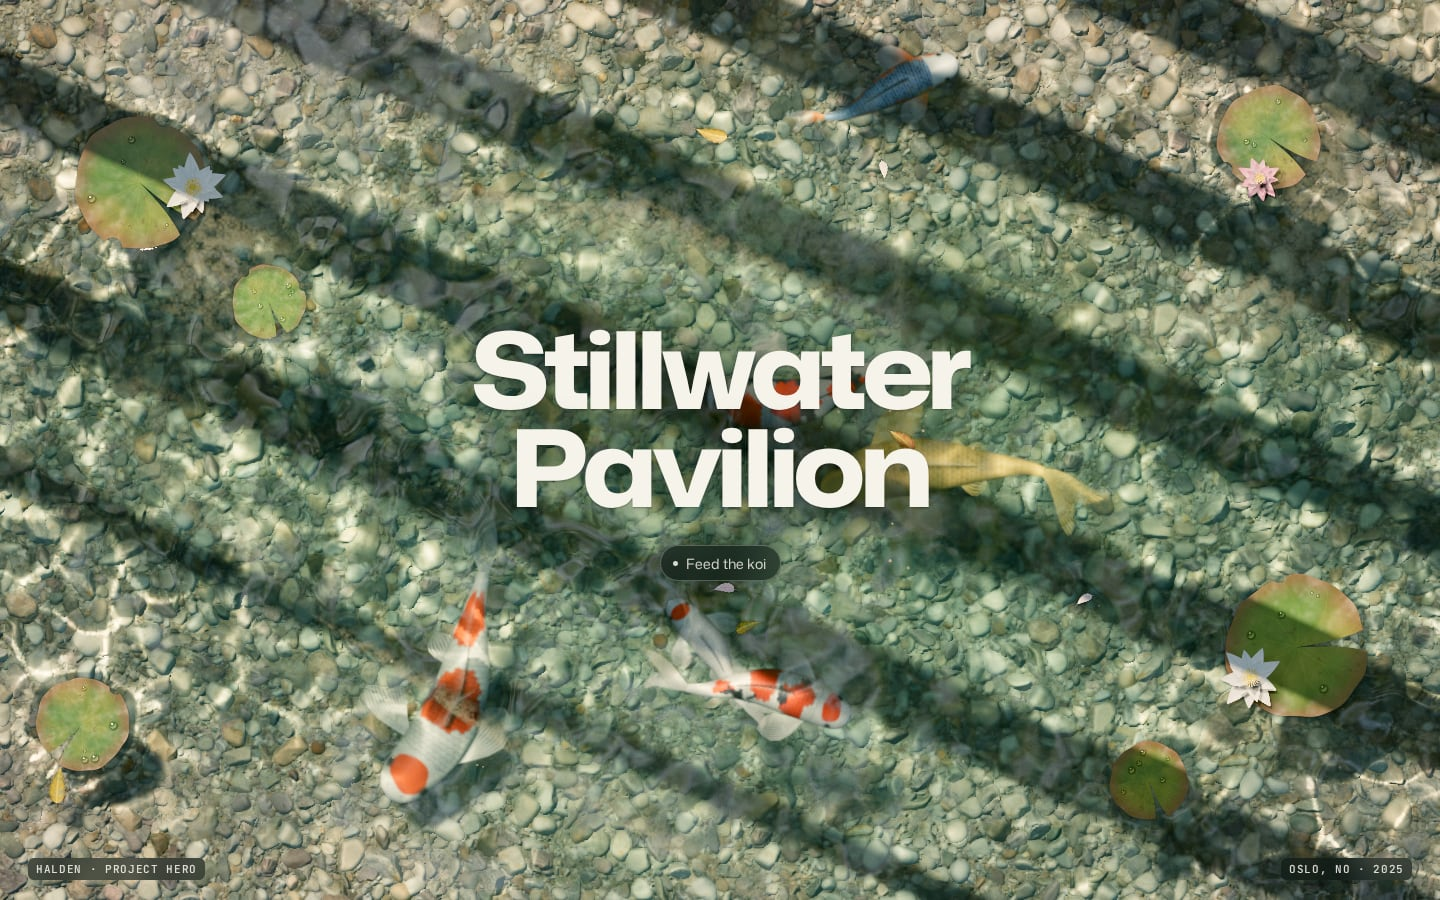
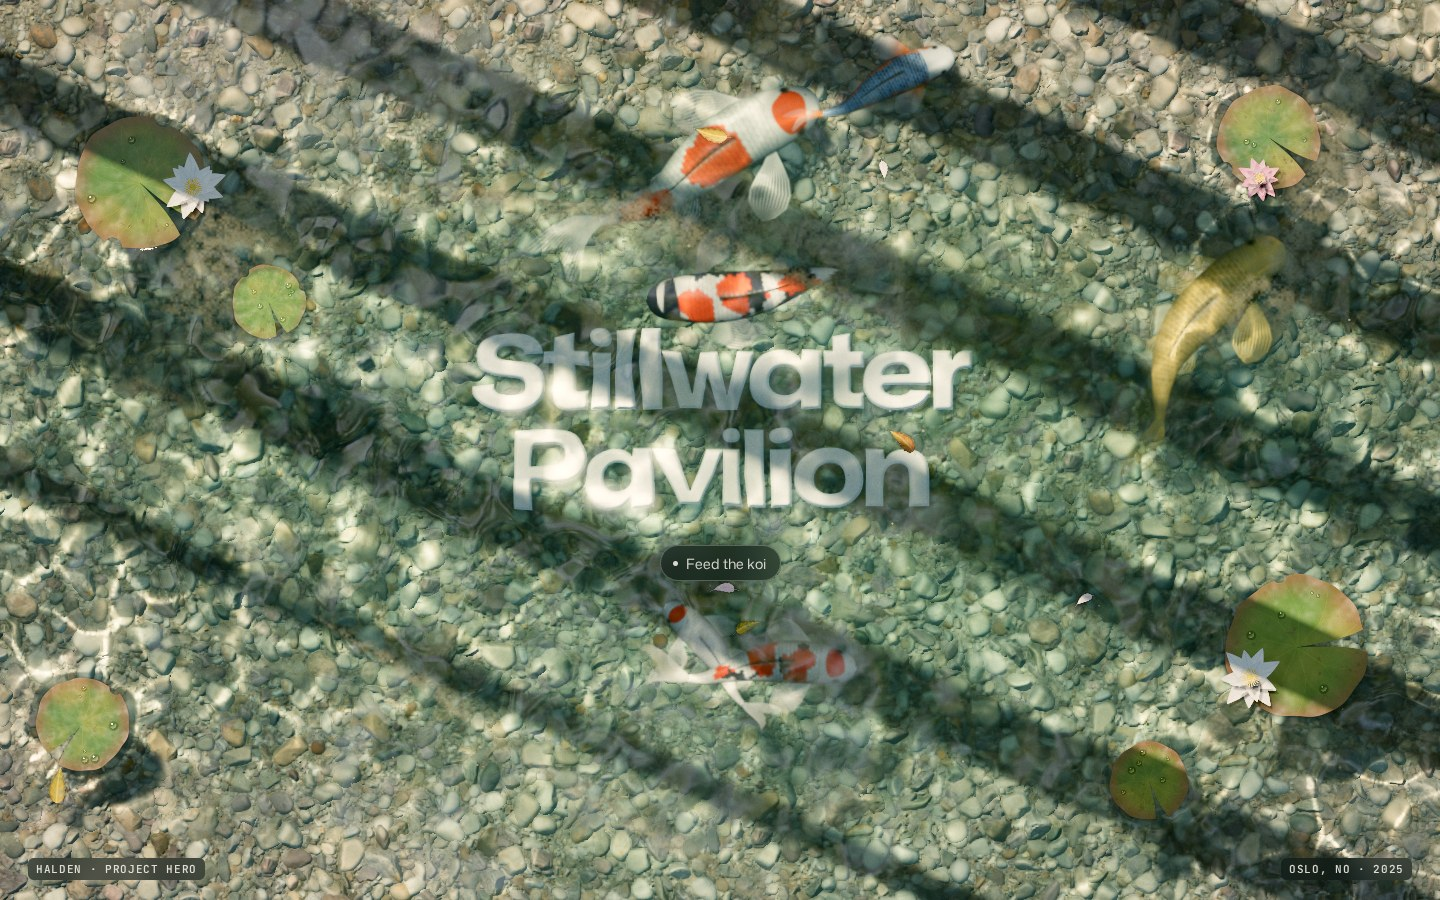
Lay the koi headline on the pond's bed in stone letters
The headline is now part of the scene, like the meadow's word: pale stone
letters on the floor that the ripples bend, the roof's shade and the
caustics cross, and the koi swim over. The DOM heading stays for assistive
tech (transparent once the pond is ready) and is the headline again in the
static fallback. Hide text removes the letters too.

Idle koi swim round the headline so it stays readable; food or a curious
pointer still takes them over it. pond-check covers the rule on a desktop
and a phone frame.

diff --git a/src/koi/glsl/composite.js b/src/koi/glsl/composite.js
@@ -1,5 +1,5 @@
 // The photograph's main pass: for every pixel look down through the rippled surface, shade the floor it lands
-// on (pebbles, sun through the pavilion's roof and the caustics, the shadows of koi, pads and letters), lay the koi over it,
+// on (pebbles and the headline's stone letters, sun through the pavilion's roof and the caustics, the shadows of koi and pads), lay the koi over it,
 // take the water's toll, then add what the surface itself reflects.
 import { common, gobo } from './common.js';
 
@@ -64,6 +64,20 @@ void main() {
   float film = clamp(0.75 - aux.g * 1.5 + 1.1 * (vnoise(pf / (uS * 170.0) + 5.0) - 0.45), 0.0, 1.0);
   alb = mix(alb, alb * vec3(0.5, 0.5, 0.26) + vec3(0.004, 0.009, 0.003), film * 0.32);
   alb *= 0.9;
+  // ---- the headline lies on the bed: letters cut from pale stone, a finger thick. Being floor, they bend with the
+  // ripples, the roof's shade and the caustics fall across them, and the koi swim over them.
+  vec4 tx = textureLod(uText, uvOf(pf), 0.0);   // b: the letters, r: the same but soft
+  float stone = tx.b;
+  if (tx.r > 0.003) {
+    float te = 1.5 * uS;
+    vec2 tg = vec2(textureLod(uText, uvOf(pf + vec2(te, 0.0)), 0.0).r - textureLod(uText, uvOf(pf - vec2(te, 0.0)), 0.0).r,
+                   textureLod(uText, uvOf(pf + vec2(0.0, te)), 0.0).r - textureLod(uText, uvOf(pf - vec2(0.0, te)), 0.0).r);
+    vec3 sa = vec3(0.8, 0.78, 0.71) * (0.9 + 0.14 * vnoise(pf / (uS * 22.0) + 9.0) + 0.08 * (vnoise(pf / (uS * 1.6)) - 0.5));
+    sa = mix(sa, sa * vec3(0.62, 0.68, 0.42), 0.3 * smoothstep(0.45, 0.8, vnoise(pf / (uS * 46.0) + 31.0)));   // a little of the pond's film has begun on them, in patches of its own
+    alb = mix(alb, sa, stone);
+    n = normalize(mix(n, vec3(-tg * 3.4, 1.0), stone));       // a worn bevel round every edge
+    aux.r = mix(aux.r, 1.0, stone);
+  }
   vec2 wob = g * 30.0 * uS;                                  // the same ripples that focus the light bend the shadows
   vec2 sdir = SHDIR * TANW;
   float gate = goboAt(pf - sdir * 30.0 * uS + wob * 0.15, 0.03 * d);   // the floor's unevenness would bend the beams' shadows out of recognition: they are laid as on a level bed
@@ -74,14 +88,14 @@ void main() {
   vec2 sh = vec2(0.0, textureLod(uShadow, su, 1.6 * deep).g);
   float rim = smoothstep(0.1, 0.4, textureLod(uShadow, su, 2.6).g - sh.g) * (1.0 - deep);
   float shKoi = texture(uShadow, uvOf(pf + wob)).r;   // koi shadows are drawn where they land; a pad's (green) lies at the surface
-  // the letters hang just above the water: on the deep floor their shadow is only a soft pool, down-sun of the type
-  float shText = texture(uText, uvOf(pf - SHDIR * 26.0 * uS + wob)).g;
-  float lit = (1.0 - 0.9 * shKoi) * (1.0 - 0.94 * sh.g) * (1.0 - 0.6 * shText);
+  // the letters' own shadow on the pebbles down-sun of them, and the dim seam where stone meets pebble
+  float shText = textureLod(uText, uvOf(pf - sdir * 9.0 * uS), 0.0).r * (1.0 - stone);
+  float lit = (1.0 - 0.9 * shKoi) * (1.0 - 0.94 * sh.g) * (1.0 - 0.75 * shText);
   vec3 sun = SUNCOL * gate * mix(1.0, ca, 0.86 - 0.2 * deep) * lit * (1.0 + 1.3 * rim);
   float ndl = max(dot(n, SUN_W), 0.0);
-  vec3 amb = SKYCOL * (0.5 + 0.5 * gate) * mix(0.3, 1.0, aux.r) * (1.0 - 0.35 * sh.g) * (1.0 - 0.3 * shKoi);   // the roof hides some of the sky too
+  vec3 amb = SKYCOL * (0.5 + 0.5 * gate) * mix(0.3, 1.0, aux.r) * (1.0 - 0.35 * sh.g) * (1.0 - 0.3 * shKoi) * (1.0 - 0.5 * tx.r * (1.0 - stone));   // the roof hides some of the sky too
   vec3 col = alb * (sun * ndl + amb);
-  col = throughWater(col, d, (0.3 + 0.7 * gate) * (1.0 - 0.45 * shText) * (1.0 - 0.3 * sh.g));
+  col = throughWater(col, d * (1.0 - 0.72 * stone), (0.3 + 0.7 * gate) * (1.0 - 0.3 * sh.g));   // the letters stand well clear of the bed: less water lies over them
 
   // ---- koi, a little less displaced than the floor because they are nearer the surface
   vec4 k = texture(uKoi, uvOf(p + off * (dk / d)));
@@ -96,7 +110,7 @@ void main() {
   // ---- sun glitter: a facet of the surface that leans far enough toward the sun mirrors it into the lens as one
   // burnt-out point. Wind ripples manage it on a crest here and there, more toward the sun's side of the frame
   // where less lean is needed; a ring or a wake carries a whole line of points. None in the roof's shade.
-  float tm = smoothstep(0.0, 0.6, texture(uText, vUv).g);   // full under the letters, fading out round them
+  float tm = smoothstep(0.0, 0.6, texture(uText, vUv).g);   // full under the button, fading out round it
   float open = goboAt(p, 0.0);
   vec2 lean = (sf.xy + 0.6 * (sf.xy - gs)) - (GLINT + 0.5 * (p - 0.5 * uRes) / max(uRes.x, uRes.y));
   float glint = exp(-dot(lean, lean) * 120.0) * open * (1.0 - tm);
@@ -110,8 +124,8 @@ void main() {
     col = mix(col, vec3(0.56, 0.52, 0.3) * (SUNCOL * open * 0.3 + SKYCOL * 0.7), 0.36 * veil);
   }
 
-  // ---- the copy's quiet: a soft dip in exposure under the letters, which takes most from the brightest lines
-  // of light, so the type never has to compete with a caustic
+  // ---- the button's quiet: a soft dip in exposure under it, which takes most from the brightest lines of light,
+  // so its label never has to compete with a caustic
   col *= (1.0 - 0.5 * tm) / (1.0 + 3.4 * tm * dot(col, vec3(0.3, 0.6, 0.1)));
   o = vec4(col, 1.0);
 }

diff --git a/src/koi/textmask.js b/src/koi/textmask.js
@@ -1,46 +1,45 @@
-// The DOM headline, redrawn into a small canvas so the scene can react to it: red = the letters, slightly soft
-// (they cast a shadow on the koi and the floor), green = a wide glow under the headline and the button (a quiet dip
-// in exposure).
-// Half the hero's CSS resolution is enough for both.
-const DOWN = 0.5;
-
+// The DOM headline, redrawn into a canvas so the scene can have it. The letters lie on the pond's bed, cut from pale
+// stone: blue = the letters themselves, crisp; red = the same, soft (their bevel, and the shadow they throw on the
+// bed beside them); green = a wide glow under the button (a quiet dip in exposure, so its label stays readable).
+// Drawn at the screen's own resolution, capped at four megapixels: the letters are looked at.
 export function drawTextMask(cv, root) {
   const box = root.getBoundingClientRect();
-  const w = Math.max(2, Math.round(box.width * DOWN)); const h = Math.max(2, Math.round(box.height * DOWN));
+  const K = Math.min(window.devicePixelRatio || 1, 2, Math.sqrt(4e6 / Math.max(1, box.width * box.height)));
+  const w = Math.max(2, Math.round(box.width * K)); const h = Math.max(2, Math.round(box.height * K));
   if (cv.width !== w || cv.height !== h) { cv.width = w; cv.height = h; }
   const g = cv.getContext('2d');
   g.setTransform(1, 0, 0, 1, 0, 0); g.globalCompositeOperation = 'source-over'; g.shadowColor = 'transparent';
   g.fillStyle = '#000'; g.fillRect(0, 0, w, h);
-  if (root.classList.contains('koi--bare')) return; // the text is hidden: nothing lies over the water to shade it
+  if (root.classList.contains('koi--bare')) return; // the text is switched off: no letters on the bed, no glow
   g.globalCompositeOperation = 'lighter';
   const FAR = w + 4000; // shapes are drawn off-canvas and only their blurred shadow lands on it: blur without ctx.filter
-  const soft = (colour, blur, paint) => { g.shadowColor = colour; g.shadowBlur = blur; g.shadowOffsetX = FAR; g.shadowOffsetY = 0; g.fillStyle = '#000'; paint(); };
+  const soft = (colour, blur, paint) => { g.shadowColor = colour; g.shadowBlur = blur; g.shadowOffsetX = FAR; g.shadowOffsetY = 0; g.fillStyle = '#000'; paint(FAR); g.shadowColor = 'transparent'; };
 
   const h1 = root.querySelector('h1'); const node = h1.firstChild;
   const cs = getComputedStyle(h1); const size = parseFloat(cs.fontSize);
   const font = `${cs.fontWeight} ${size}px ${cs.fontFamily}`;
-  // one rect per word, straight from layout, so a wrapped headline casts a wrapped shadow
+  // one rect per word, straight from layout, so a wrapped headline is laid out wrapped
   const words = []; const range = document.createRange(); const text = node.textContent; const re = /\S+/g; let m;
   while ((m = re.exec(text))) { range.setStart(node, m.index); range.setEnd(node, m.index + m[0].length); words.push([m[0], range.getBoundingClientRect()]); }
-  const word = (str, r) => {
+  const word = (str, r, far) => {
     g.save();
     g.font = font; g.textBaseline = 'alphabetic';
     if ('letterSpacing' in g) g.letterSpacing = cs.letterSpacing;
+    if ('fontStretch' in g) g.fontStretch = 'expanded';   // the nearest a canvas can ask for to the headline's 118% width
     const met = g.measureText(str); const asc = met.fontBoundingBoxAscent ?? size * 0.9; const desc = met.fontBoundingBoxDescent ?? size * 0.25;
     const sy = r.height / (asc + desc);
-    // canvas cannot ask for the 118% width axis by number, so the word is fitted to the width layout gave it
-    g.translate((r.left - box.left) * DOWN - FAR, (r.top - box.top + asc * sy) * DOWN); g.scale((r.width / met.width) * DOWN, DOWN);
+    // the rest of the way to that width: the word is fitted to the width layout gave it
+    g.translate((r.left - box.left) * K - far, (r.top - box.top + asc * sy) * K); g.scale((r.width / met.width) * K, K);
     g.fillText(str, 0, 0);
     g.restore();
   };
-  soft('#f00', 3.2 + size * 0.02, () => { for (const [s, r] of words) word(s, r); });
-  soft('#0f0', size * 0.32, () => { for (const [s, r] of words) word(s, r); });
-  // the button gets the wide glow too (the plate line sits on its own smoked glass, in CSS)
-  soft('rgb(0,150,0)', 18, () => {
+  g.fillStyle = '#00f'; for (const [s, r] of words) word(s, r, 0);
+  soft('#f00', 3 * K, (far) => { for (const [s, r] of words) word(s, r, far); });
+  // the button's label is small type over moving light (the plate line sits on its own smoked glass, in CSS)
+  soft('rgb(0,150,0)', 36 * K, (far) => {
     for (const el of root.querySelectorAll('.koi__cue')) {
       const r = el.getBoundingClientRect(); const pad = 6;
-      g.beginPath(); g.roundRect((r.left - box.left - pad) * DOWN - FAR, (r.top - box.top - pad) * DOWN, (r.width + 2 * pad) * DOWN, (r.height + 2 * pad) * DOWN, 12); g.fill();
+      g.beginPath(); g.roundRect((r.left - box.left - pad) * K - far, (r.top - box.top - pad) * K, (r.width + 2 * pad) * K, (r.height + 2 * pad) * K, 24 * K); g.fill();
     }
   });
-  g.shadowColor = 'transparent';
 }

diff --git a/src/koi/pond.js b/src/koi/pond.js
@@ -26,7 +26,7 @@ export const BLOOMS = [[0, 0.62, -0.5, 0.5], [3, -0.7, 0.35, 0.46], [2, 0.3, 0.7
 
 export function createPond(options) {
   let cfg = options;
-  const st = { W: 0, H: 0, S: 1, K: BIG, t: 0, fish: [], pads: [], pellets: [], rips: [], ptr: null, splash: [] };
+  const st = { W: 0, H: 0, S: 1, K: BIG, t: 0, fish: [], pads: [], pellets: [], rips: [], ptr: null, splash: [], keep: null };   // keep: the headline's box, see setKeep
   let fed = 0; let wake = 0; let skim = 0;
 
   // A phone gets fewer, so the water stays open.
@@ -75,6 +75,7 @@ export function createPond(options) {
     st.t += dt;
     const { W, H, S, K, t, fish, pellets, ptr } = st;
     const life = cfg.ripple / WAVE; // a click's rings fade as they reach cfg.ripple px
+    const g = 22 * S * K; const kb = st.keep && { l: st.keep.l - g, t: st.keep.t - g, r: st.keep.r + g, b: st.keep.b + g };   // room for half a koi's width round the letters
     // Pellets on their way: falling (h, 1 to 0, as things fall: slowly at first), or rolling off a pad with it.
     for (const p of pellets) {
       if (p.wet) continue;
@@ -110,6 +111,7 @@ export function createPond(options) {
       const out = Math.max(m - px, px - (W - m), m - py, py - (H - m), 0);
       if (out && !food) {
         if (W >= H) { mid.x = clamp(f.x, H / 2, W - H / 2); mid.y = H / 2; } else { mid.x = W / 2; mid.y = clamp(f.y, W / 2, H - W / 2); }
+        if (kb && mid.x > kb.l && mid.x < kb.r && mid.y > kb.t && mid.y < kb.b) mid.y = f.y < (kb.t + kb.b) / 2 ? kb.t : kb.b;   // that line runs through the headline: take the near side of it
         const d = dist(f, mid); const k = 3 * Math.min(1, out / (16 * s));
         sx += ((mid.x - f.x) / d) * k; sy += ((mid.y - f.y) / d) * k; arc = 50;
       }
@@ -122,6 +124,17 @@ export function createPond(options) {
         else if (d < cfg.reach * K) { tx = ptr.x; ty = ptr.y; pk = d > 48 * f.z ? 2 : d < 34 * f.z ? -1.2 : 0; speed *= d < 70 * f.z ? 0.6 : 1.2; arc = Math.min(arc, 34); level = 0.15; } // curious: come over and up, then loiter
       }
       if (pk) { const d = Math.hypot(tx - f.x, ty - f.y) || 1; sx += ((tx - f.x) / d) * pk; sy += ((ty - f.y) / d) * pk; }
+      // The headline lies on the bed in stone letters. A koi with nothing better to do swims round it, so it stays
+      // readable; food or a curious pointer takes a koi straight over it.
+      else if (kb && !tx && !ty) {   // (tx, ty: the pointer has its attention)
+        const in0 = Math.min(f.x - kb.l, kb.r - f.x, f.y - kb.t, kb.b - f.y); const in1 = Math.min(px - kb.l, kb.r - px, py - kb.t, kb.b - py);
+        const deep = Math.max(in0, in1);   // how far the head, or the point it is making for, is inside
+        if (deep > 0) {
+          const cx = (kb.l + kb.r) / 2; const cy = (kb.t + kb.b) / 2; const d = Math.hypot(f.x - cx, (f.y - cy) * 2.5) || 1;   // out by the short way: over the long side
+          const k = 2.6 * Math.min(1, deep / (20 * s));
+          sx += ((f.x - cx) / d) * k; sy += ((f.y - cy) * 2.5 / d) * k; arc = Math.min(arc, 46);
+        }
+      }
       f.scare = Math.max(0, f.scare - dt);
       f.dive += (level - f.dive) * Math.min(1, dt * (f.scare > 0 ? 3 : 0.8));
       let da = Math.atan2(sy, sx) - f.a; da = Math.atan2(Math.sin(da), Math.cos(da));
@@ -183,6 +196,8 @@ export function createPond(options) {
   return {
     st,
     setOptions(next) { cfg = next; },
+    // The box of the headline on the bed ({ l, t, r, b } in px), or null when there is none: idle koi keep clear of it.
+    setKeep(box) { st.keep = box; },
     stock, place, step, drop,
     // The Feed button and the action: seeded spots in the open water around the headline.
     seeded() { const p = [(0.16 + 0.68 * rnd(fed * 2 + 20)) * st.W, (0.2 + 0.6 * rnd(fed * 2 + 21)) * st.H]; fed++; return p; },

diff --git a/src/koi/index.js b/src/koi/index.js
@@ -1,6 +1,7 @@
 // Koi pond hero — the first screen of Halden's Stillwater Pavilion page is the pavilion's water, photographed
-// from straight above: a clear, shallow pond in morning sun that falls through the slatted roof in bands. Koi
-// swim beneath the headline and under the lily pads; a slow pointer draws them over, a fast one scatters them
+// from straight above: a clear, shallow pond in morning sun that falls through the slatted roof in bands. The
+// headline lies on its bed in stone letters; koi swim over it and under the lily pads; a slow pointer draws them
+// over, a fast one scatters them
 // and skims the surface, and a click (or the Feed button) drops a pellet whose rings are real ripples in the
 // water. This file is the DOM, the input and the loop; pond.js holds the rules, renderer.js the image.
 import './style.css';
@@ -46,6 +47,8 @@ export default function mount(root, options = {}) {
     const w = root.clientWidth; const h = root.clientHeight;
     if (!w || !h) return;
     const moved = w !== st.W || h !== st.H;
+    const a = root.getBoundingClientRect(); const b = title.getBoundingClientRect();
+    pond.setKeep(cfg.text ? { l: b.left - a.left, t: b.top - a.top, r: b.right - a.left, b: b.bottom - a.top } : null);   // where the stone letters lie
     if (moved) {
       const restock = pond.fit(w, h);
       if (restock) R?.stock(st.fish);
@@ -99,7 +102,7 @@ export default function mount(root, options = {}) {
       const top = Math.min(window.devicePixelRatio || 1, 2);
       // on a 2x screen the governor may fall to 1x: soft, but it holds its frame rate
       if (gov) R.setRatio(gov.ratio); else gov = governor({ min: clamp(top * 0.5, 0.7, 1), max: top, onChange: (ratio) => R?.setRatio(ratio) });
-      document.fonts?.ready.then(() => { if (!dead && !lost && R === r) fit(); }); // the letters' shadow needs the real face
+      document.fonts?.ready.then(() => { if (!dead && !lost && R === r) fit(); }); // the stone letters need the real face
       run();
     }).catch((err) => {
       if (dead) return; // destroyed while it was still starting: the root has been handed back clean
@@ -134,7 +137,7 @@ export default function mount(root, options = {}) {
     update(next = {}) {
       const was = cfg; cfg = read({ ...cfg, ...next });
       pond.setOptions(cfg); R?.setRipple(cfg.ripple);
-      if (was.text !== cfg.text) { root.classList.toggle('koi--bare', !cfg.text); if (R && !lost) R.text(root, drawTextMask); } // the letters' shadow goes with them
+      if (was.text !== cfg.text) { root.classList.toggle('koi--bare', !cfg.text); fit(); } // the stone letters go with it
       if (was.count !== cfg.count || was.pads !== cfg.pads) { pond.stock(); R?.stock(st.fish); if (live) pond.place(); else pond.pose(); }
       if (!live) still();
     },

diff --git a/src/koi/style.css b/src/koi/style.css
@@ -1,4 +1,5 @@
-/* Koi pond hero. The canvas is the photograph; the headline, the Feed button and the plate line are DOM on top. */
+/* Koi pond hero. The canvas is the photograph, the headline included (stone letters on the pond's bed); the Feed
+   button and the plate line are DOM on top. */
 .koi {
   --koi-ground: #0c1513; /* the quiet ground before the water arrives, and the fallback */
   --koi-ink: #f6f3ea;
@@ -16,7 +17,9 @@
 .koi__canvas { opacity: 0; transition: opacity 1.4s var(--ease-out); }
 .koi--ready .koi__canvas { opacity: 1; }
 
-/* The headline lies above the surface: koi pass beneath the letters, and the scene shades the water under them. */
+/* The headline is real text, set where the scene lays its stone letters (the scene reads the layout from it). Until
+   the pond is ready, and when there is no WebGL, it is the headline; then the stone letters take its place and the
+   text stays for assistive tech only (transparent, not hidden). */
 .koi__title {
   position: relative;
   max-width: 11ch;
@@ -30,7 +33,9 @@
   text-wrap: balance;
   pointer-events: none;
   text-shadow: 0 1px 2px rgb(4 12 10 / 0.28), 0 0 34px rgb(4 12 10 / 0.22);
+  transition: opacity 1.4s var(--ease-out);
 }
+.koi--ready .koi__title { opacity: 0; }
 
 /* The invitation and the keyboard path: a small pane of smoked glass, so no koi shows through its label. */
 .koi__cue {
@@ -82,7 +87,7 @@
 /* The text can be switched off (the text option): the pond alone. Hidden, not removed, so the layout holds. */
 .koi--bare .koi__title, .koi--bare .koi__cue, .koi--bare .koi__note { visibility: hidden; }
 
-@media (prefers-reduced-motion: reduce) { .koi__canvas, .koi__cue { transition: none; } }
+@media (prefers-reduced-motion: reduce) { .koi__canvas, .koi__title, .koi__cue { transition: none; } }
 
 .koi--static .koi__canvas { visibility: hidden; }
 .koi--static .koi__cue { display: none; } /* no pond to feed */

diff --git a/src/koi/glsl/koi.js b/src/koi/glsl/koi.js
@@ -51,7 +51,7 @@ ${common}
 ${gobo}
 in vec4 vA; in vec3 vT; flat in vec4 vC; in vec2 vP; in float vD;
 out vec4 o;
-uniform sampler2D uCaust; uniform sampler2D uShadow; uniform sampler2D uText;
+uniform sampler2D uCaust; uniform sampler2D uShadow;
 uniform sampler2D uSkin;   // one painted strip per koi (skins.js)
 
 const vec3 WHITE = vec3(0.62, 0.6, 0.55);
@@ -80,14 +80,13 @@ void main() {
   // seen through more water an outline is softer
   float edge = smoothstep(0.0, 1.0 + 3.5 * sunk, (w - abs(l)) * uPx + 0.5);
 
-  // light arriving at this koi: sun through the roof and the ripples, less under a pad or a letter. The ripples
+  // light arriving at this koi: sun through the roof and the ripples, less under a pad. The ripples
   // have not finished focusing it this far above the floor: broad bands that slide over the back.
   vec2 ps = vP - SHDIR * TANW * dk;      // where that light came through the surface
   float sunGate = goboAt(ps, dk * 0.08);
   float ca = textureLod(uCaust, uvOf(vP + lat * l * 0.35), 1.0 + 1.6 * (1.0 - dk / d)).r;
   float shPad = texture(uShadow, uvOf(ps)).g;
-  float shText = texture(uText, uvOf(ps - SHDIR * 10.0 * uS)).r;
-  vec3 sun = SUNCOL * sunGate * mix(1.0, min(ca, 2.6), 0.85) * (1.0 - 0.92 * shPad) * (1.0 - 0.7 * shText);   // capped: a pale koi under a bright line must not burn out
+  vec3 sun = SUNCOL * sunGate * mix(1.0, min(ca, 2.6), 0.85) * (1.0 - 0.92 * shPad);   // capped: a pale koi under a bright line must not burn out
   vec3 amb = SKYCOL * (0.5 + 0.35 * sunGate) * (1.0 - 0.5 * shPad);
 
   vec3 col; float alpha;

diff --git a/src/koi/renderer.js b/src/koi/renderer.js
@@ -103,7 +103,7 @@ export async function createRenderer(canvas, { low = false } = {}) {
 
   // ---- koi
   const fish = createFish();
-  const koiU = { uCaust: { value: rt.caustTmp.texture }, uShadow: { value: rt.shadow.texture }, uText: { value: textTex }, uSkin: { value: skinTex } };
+  const koiU = { uCaust: { value: rt.caustTmp.texture }, uShadow: { value: rt.shadow.texture }, uSkin: { value: skinTex } };
   const koi = sceneOf(fish.geo, mat(koiVert, koiFrag, koiU, OVER));
   const koiMask = sceneOf(fish.geo, mat(koiMaskVert, koiMaskFrag, {}, MAX));
 

diff --git a/README.md b/README.md
@@ -48,7 +48,7 @@ This is the picture at the top of this page: a magazine cover for a "Weather" is
 
 <p>
   <a href="https://burgisimon.github.io/lifelike-heroes/koi.html">
-    <img src="docs/readme/koi.jpg" width="100%" alt="Looking straight down into a clear, sunlit pond: koi swim over a pebble floor between lily pads, under the headline Stillwater Pavilion">
+    <img src="docs/readme/koi.jpg" width="100%" alt="Looking straight down into a clear, sunlit pond: koi swim between lily pads over a pebble floor on which the headline Stillwater Pavilion lies in pale stone letters">
   </a>
 </p>
 
